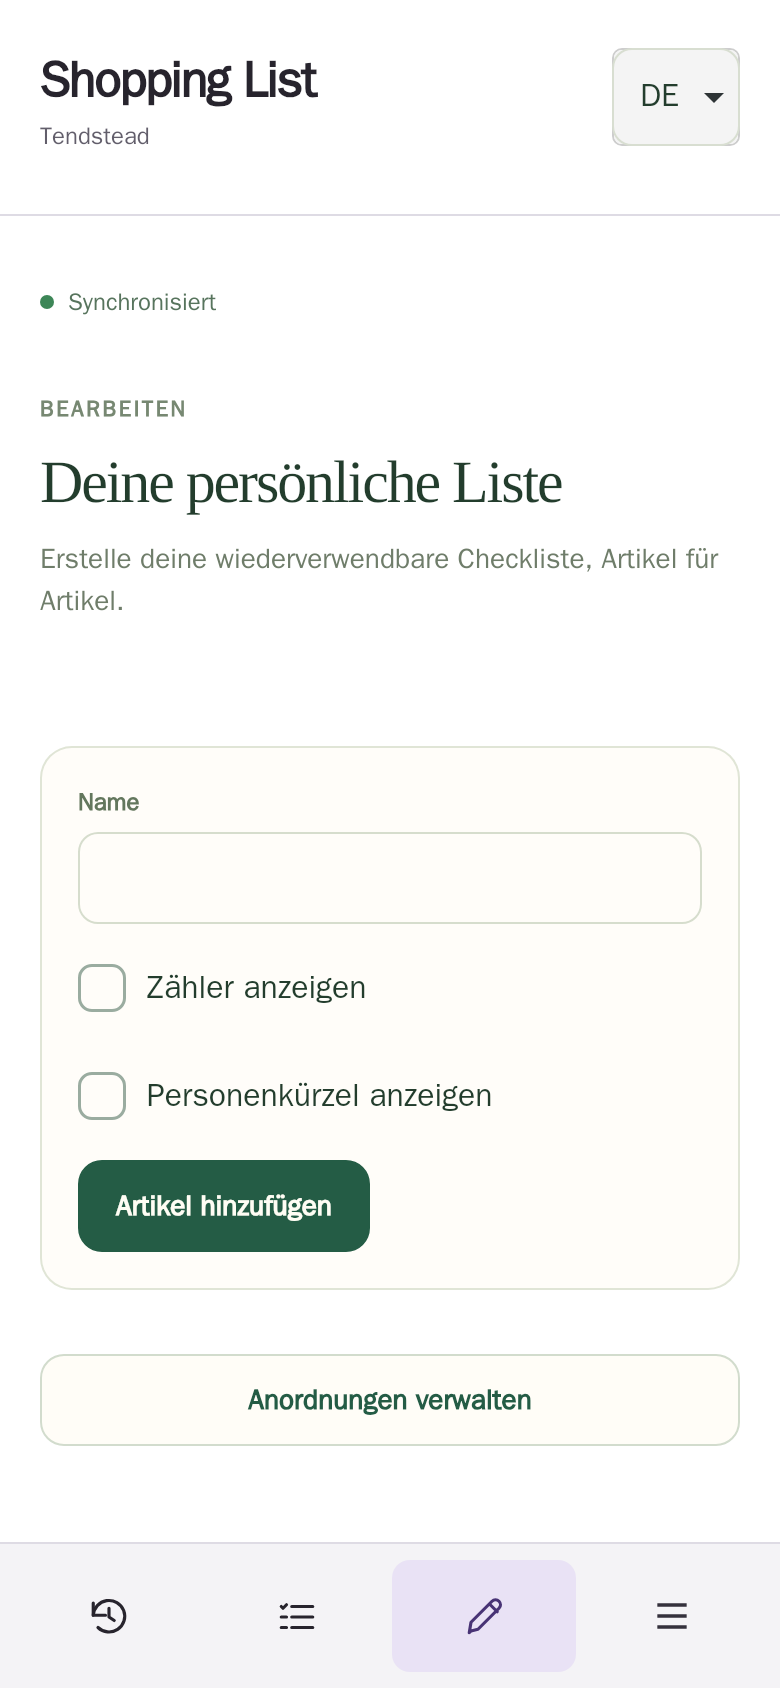
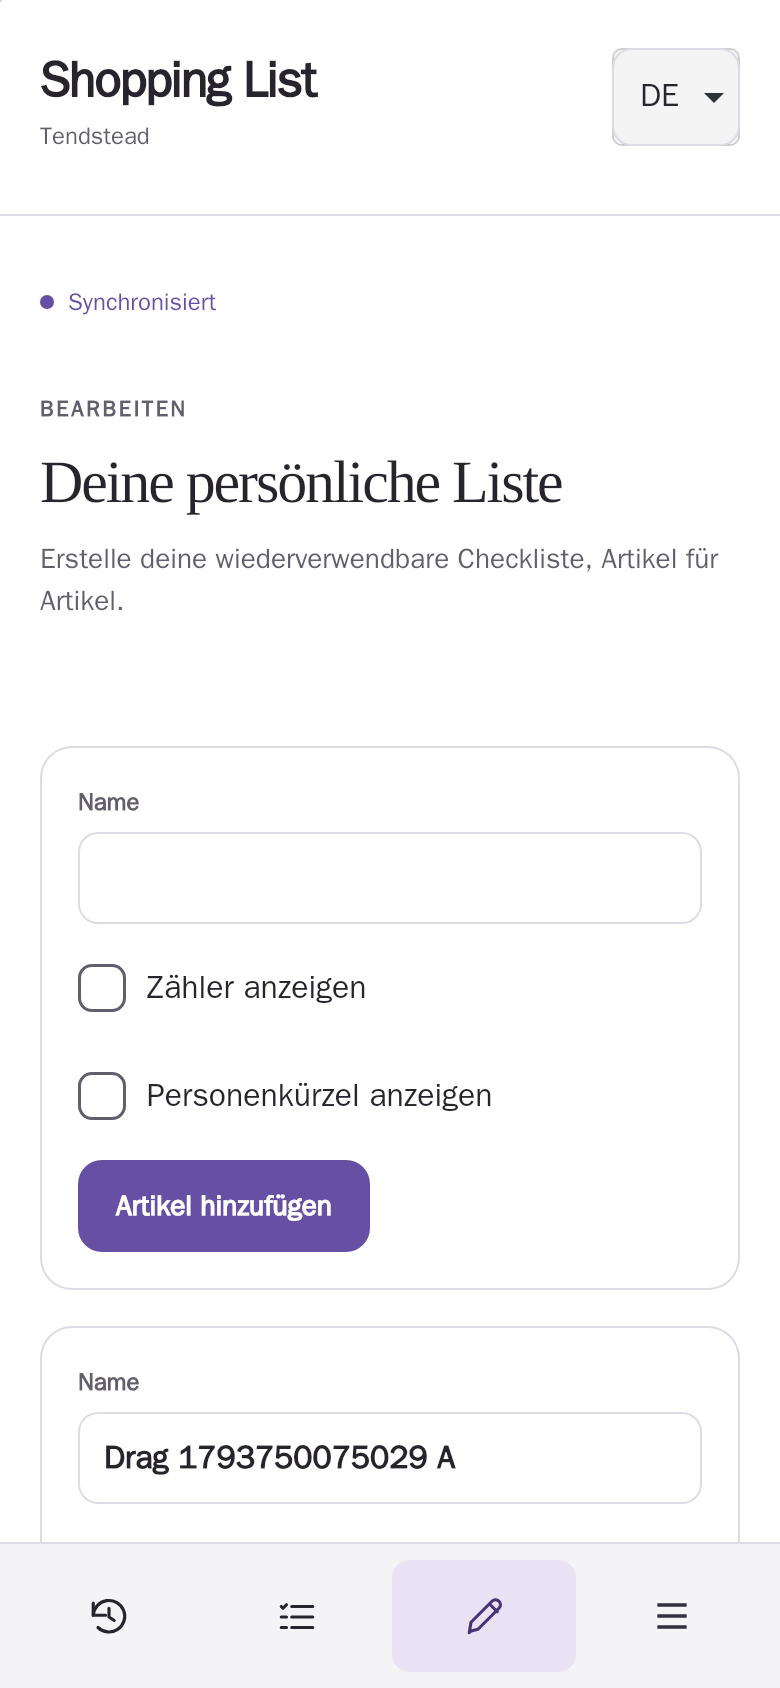
Unify app controls with shared purple theme

diff --git a/web/src/routes/[[section]]/+page.svelte b/web/src/routes/[[section]]/+page.svelte
@@ -875,8 +875,8 @@
   }
   :global(body) {
     margin: 0;
-    background: #faf8f2;
-    color: #233d2d;
+    background: var(--ts-surface-subtle, #f9f9fb);
+    color: var(--ts-text, #27242d);
     font-family:
       Inter,
       ui-sans-serif,
@@ -905,12 +905,12 @@
   :global(input:focus-visible),
   :global(select:focus-visible),
   :global(summary:focus-visible) {
-    outline: 3px solid #c7953d;
+    outline: 3px solid var(--ts-focus, #6750a4);
     outline-offset: 3px;
   }
   :global(input),
   :global(select) {
-    color: #233d2d;
+    color: var(--ts-text, #27242d);
   }
   :global(html) {
     scroll-behavior: auto;
@@ -929,10 +929,10 @@
   .app {
     max-width: 780px;
     margin: auto;
-    color: #233d2d;
+    color: var(--ts-text, #27242d);
   }
   .language select {
-    border: 1px solid #d8ded1;
+    border: 1px solid var(--ts-border, #dedbe4);
     border-radius: 10px;
     background: transparent;
     padding: 8px;
@@ -950,19 +950,19 @@
     align-items: center;
     gap: 7px;
     font-size: 12px;
-    color: #57745d;
+    color: var(--ts-primary, #6750a4);
   }
   .status i {
     height: 7px;
     width: 7px;
     border-radius: 50%;
-    background: #3d8657;
+    background: var(--ts-primary, #6750a4);
   }
   .offline {
-    color: #7f8478;
+    color: var(--ts-muted, #625e6b);
   }
   .offline i {
-    background: #949a8b;
+    background: var(--ts-muted, #625e6b);
   }
   .saving {
     color: #977424;
@@ -981,7 +981,7 @@
     font-size: 11px;
     text-transform: uppercase;
     letter-spacing: 0.12em;
-    color: #778872;
+    color: var(--ts-muted, #625e6b);
     font-weight: 650;
     margin: 0 0 12px;
   }
@@ -996,7 +996,7 @@
   }
   .hero > p:not(.eyebrow) {
     font-size: 14px;
-    color: #6f7d6a;
+    color: var(--ts-muted, #625e6b);
     margin: 0 0 20px;
   }
   h2 {
@@ -1014,23 +1014,23 @@
     border-radius: 12px;
     padding: 11px 18px;
     min-height: 46px;
-    border: 1px solid #245c45;
+    border: 1px solid var(--ts-primary, #6750a4);
     font-weight: 600;
     font-size: 14px;
   }
   .primary {
-    background: #245c45;
-    color: #fffdf4;
+    background: var(--ts-primary, #6750a4);
+    color: var(--ts-on-primary, #fff);
   }
   .secondary {
-    background: #fffdf7;
-    color: #245c45;
-    border-color: #d2dccd;
+    background: var(--ts-surface, #fff);
+    color: var(--ts-primary, #6750a4);
+    border-color: var(--ts-border, #dedbe4);
   }
   .text-button {
     border: 0;
     background: transparent;
-    color: #3c6b4c;
+    color: var(--ts-primary, #6750a4);
     padding: 10px 5px;
     font-size: 13px;
     font-weight: 600;
@@ -1060,13 +1060,13 @@
   }
   .layout > span {
     font-size: 12px;
-    color: #77836d;
+    color: var(--ts-muted, #625e6b);
   }
   .layout select {
     max-width: 200px;
     min-height: 44px;
     border: 0;
-    border-bottom: 1px solid #b8c5ad;
+    border-bottom: 1px solid var(--ts-border, #dedbe4);
     background: transparent;
     font-weight: 650;
     font-size: 14px;
@@ -1075,8 +1075,8 @@
   .items {
     padding: 0;
     margin: 0;
-    background: #fffdf9;
-    border: 1px solid #e2e5d9;
+    background: var(--ts-surface, #fff);
+    border: 1px solid var(--ts-border, #dedbe4);
     border-radius: 16px;
     overflow: hidden;
     overflow-anchor: none;
@@ -1087,10 +1087,10 @@
   .empty {
     text-align: center;
     padding: 36px 16px 40px;
-    color: #75816e;
+    color: var(--ts-muted, #625e6b);
   }
   .empty h2 {
-    color: #3f5943;
+    color: var(--ts-text, #27242d);
     font-size: 20px;
   }
   .empty p {
@@ -1103,7 +1103,7 @@
     font-size: 40px;
     line-height: 1;
     padding-bottom: 18px;
-    color: #93aa81;
+    color: var(--ts-primary, #6750a4);
   }
   .empty .page-heading {
     font-size: 26px;
@@ -1123,14 +1123,14 @@
     cursor: pointer;
     font-size: 14px;
     font-weight: 650;
-    color: #678067;
+    color: var(--ts-muted, #625e6b);
   }
   .cart .items {
     margin-top: 8px;
   }
   .panel {
-    border: 1px solid #e0e5d6;
-    background: #fffdf9;
+    border: 1px solid var(--ts-border, #dedbe4);
+    background: var(--ts-surface, #fff);
     padding: 18px;
     border-radius: 16px;
     display: flex;
@@ -1144,12 +1144,12 @@
     gap: 6px;
     font-size: 12px;
     font-weight: 600;
-    color: #63775d;
+    color: var(--ts-muted, #625e6b);
   }
   input {
-    border: 1px solid #d6ddcd;
+    border: 1px solid var(--ts-border, #dedbe4);
     border-radius: 10px;
-    background: #fffdf9;
+    background: var(--ts-surface, #fff);
     padding: 10px 12px;
     min-height: 46px;
     font-size: 16px;
@@ -1157,7 +1157,7 @@
     width: 100%;
   }
   .panel small {
-    color: #7a846d;
+    color: var(--ts-muted, #625e6b);
     font-size: 12px;
   }
   .panel .primary {
@@ -1166,9 +1166,9 @@
   .notice,
   .finish-info,
   .error {
-    border: 1px solid #d7e2c7;
+    border: 1px solid var(--ts-border, #dedbe4);
     border-radius: 12px;
-    background: #edf3e3;
+    background: var(--ts-selection, #e9e2f5);
     padding: 12px 14px;
     font-size: 13px;
     margin: 12px 0;
@@ -1257,7 +1257,7 @@
   }
   .history li {
     padding: 10px 0;
-    border-top: 1px solid #e8ecdf;
+    border-top: 1px solid var(--ts-border, #dedbe4);
     display: flex;
     justify-content: space-between;
     gap: 12px;
@@ -1272,7 +1272,7 @@
   }
   .history-status {
     font-size: 11px;
-    color: #547b52;
+    color: var(--ts-primary, #6750a4);
     align-self: center;
     flex-shrink: 0;
   }

diff --git a/web/src/lib/ItemRow.svelte b/web/src/lib/ItemRow.svelte
@@ -127,7 +127,7 @@
   li {
     list-style: none;
     padding: 14px 12px;
-    border-bottom: 1px solid #e9e9df;
+    border-bottom: 1px solid var(--ts-border, #dedbe4);
     scroll-margin: 100px;
   }
   .main-row {
@@ -147,7 +147,7 @@
     margin-top: 3px;
     font-weight: 400;
     font-size: 11px;
-    color: #69786b;
+    color: var(--ts-muted, #625e6b);
     text-transform: uppercase;
     letter-spacing: 0.07em;
   }
@@ -161,10 +161,10 @@
     height: 46px;
     width: 42px;
     font-size: 24px;
-    border: 1px solid #d8e3d9;
+    border: 1px solid var(--ts-border, #dedbe4);
     border-radius: 12px;
-    background: #eef3ed;
-    color: #245c45;
+    background: var(--ts-surface-subtle, #f9f9fb);
+    color: var(--ts-primary, #6750a4);
   }
   .counter output {
     min-width: 28px;
@@ -185,27 +185,27 @@
     vertical-align: middle;
   }
   .tags button {
-    border: 1px solid #d6ddcd;
+    border: 1px solid var(--ts-border, #dedbe4);
     min-width: 36px;
     min-height: 44px;
     border-radius: 10px;
     font-size: 12px;
     font-weight: 700;
-    background: #fffdf7;
-    color: #677763;
+    background: var(--ts-surface, #fff);
+    color: var(--ts-muted, #625e6b);
     padding: 4px 7px;
   }
   .tags .selected {
-    background: #245c45;
-    color: white;
-    border-color: #245c45;
+    background: var(--ts-primary, #6750a4);
+    color: var(--ts-on-primary, #fff);
+    border-color: var(--ts-primary, #6750a4);
   }
   .purchased .name > span {
     text-decoration: line-through;
-    color: #788479;
+    color: var(--ts-muted, #625e6b);
   }
   .purchased {
-    background: #f5f7f0;
+    background: var(--ts-surface-subtle, #f9f9fb);
   }
   .order {
     display: flex;
@@ -214,18 +214,18 @@
     padding-top: 6px;
   }
   .order button {
-    background: #f1f2e9;
+    background: var(--ts-surface-subtle, #f9f9fb);
     border: 0;
     border-radius: 8px;
     min-height: 44px;
     min-width: 44px;
-    color: #536b59;
+    color: var(--ts-muted, #625e6b);
     font-size: 18px;
   }
   .handle {
     touch-action: none;
   }
   .dragging {
-    background: #e3eddf;
+    background: var(--ts-selection, #e9e2f5);
   }
 </style>

diff --git a/web/tests/navigation.spec.ts b/web/tests/navigation.spec.ts
@@ -34,6 +34,19 @@ test('shared shell preserves tab navigation, history, language and mobile menu',
   await mobile.getByRole('link', { name: 'Edit', exact: true }).click();
   await expect(page).toHaveURL(/\/edit$/);
   await expect(page.getByLabel('Name', { exact: true })).toBeVisible();
+  await expect(
+    page.getByRole('button', { name: 'Add item', exact: true }),
+  ).toHaveCSS('background-color', 'rgb(103, 80, 164)');
+  const counter = page.getByRole('checkbox', {
+    name: 'Show counter',
+    exact: true,
+  });
+  await counter.check();
+  await expect(counter.locator('.box')).toHaveCSS(
+    'background-color',
+    'rgb(103, 80, 164)',
+  );
+  await counter.uncheck();
   await page.reload();
   await expect(page.getByLabel('Name', { exact: true })).toBeVisible();
   await mobile.getByRole('button', { name: 'Menu', exact: true }).click();

diff --git a/web/src/lib/Checkbox.svelte b/web/src/lib/Checkbox.svelte
@@ -53,17 +53,17 @@
   .box {
     width: 24px;
     height: 24px;
-    border: 1.5px solid #9aaca0;
+    border: 1.5px solid var(--ts-muted, #625e6b);
     border-radius: 7px;
     display: grid;
     place-items: center;
     font-size: 17px;
-    color: white;
+    color: var(--ts-on-primary, #fff);
     flex-shrink: 0;
   }
   .active .box {
-    background: #245c45;
-    border-color: #245c45;
+    background: var(--ts-primary, #6750a4);
+    border-color: var(--ts-primary, #6750a4);
   }
   button:disabled {
     opacity: 0.5;

diff --git a/web/src/app.html b/web/src/app.html
@@ -3,7 +3,7 @@
   <head>
     <meta charset="utf-8" />
     <meta name="viewport" content="width=device-width, initial-scale=1" />
-    <meta name="theme-color" content="#245c45" />
+    <meta name="theme-color" content="#6750a4" />
     <link rel="icon" href="/icon.svg" />
     <link rel="manifest" href="/manifest.webmanifest" />
     %sveltekit.head%
